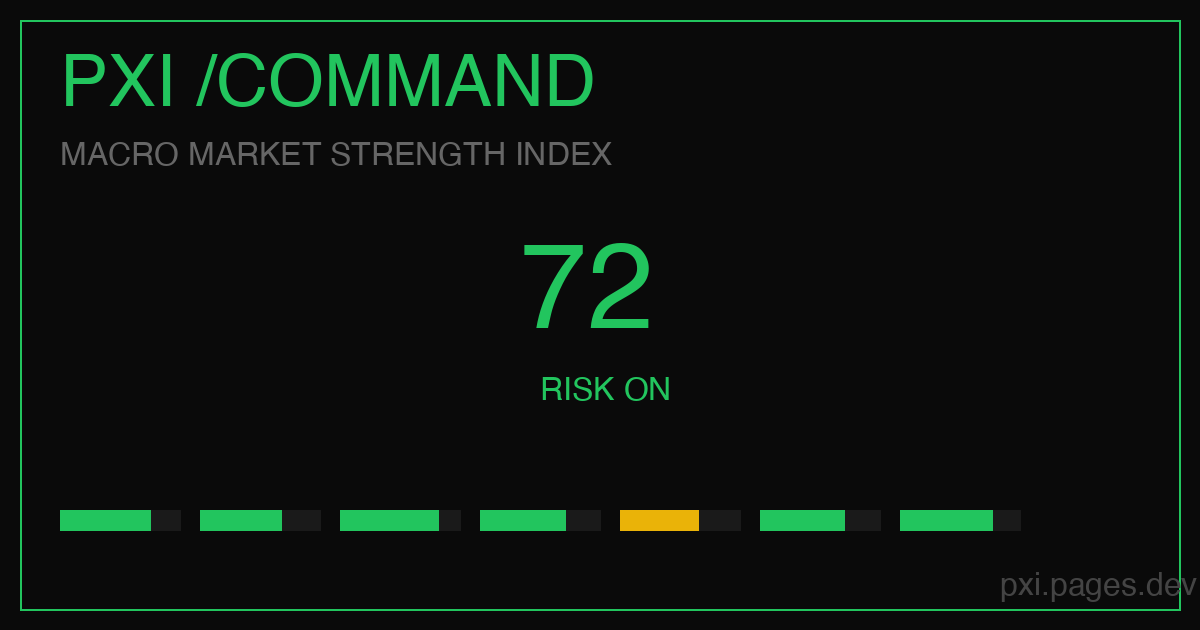
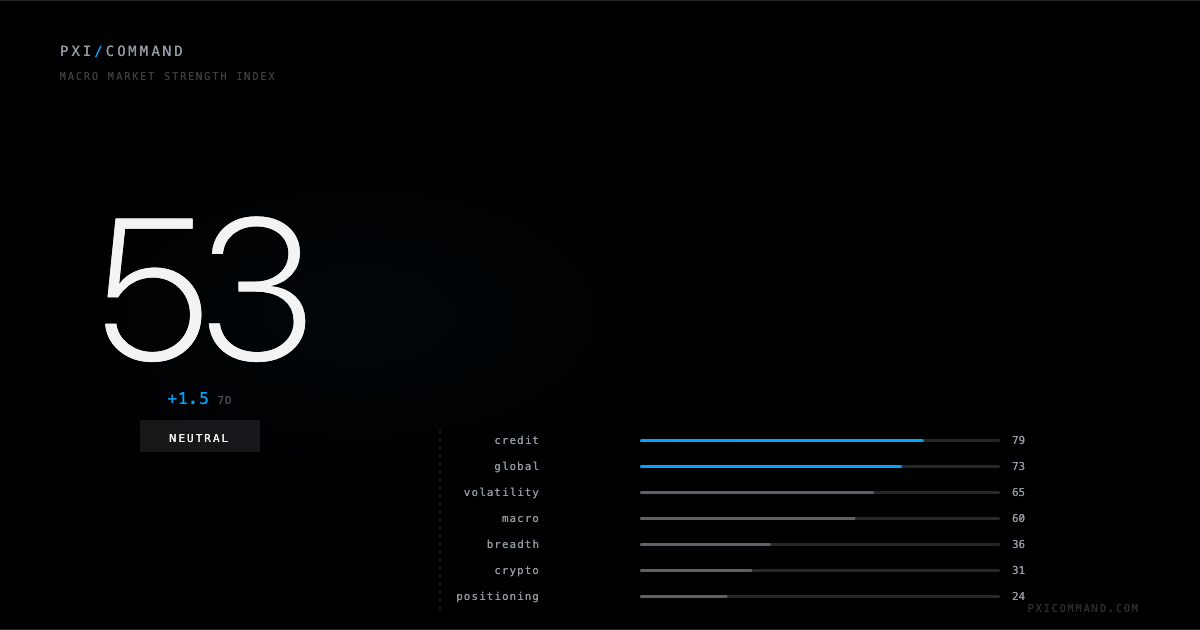
fix(og): redesign social share card to match site aesthetic
- Replace green terminal-style OG image with clean dark + blue design
- Pull live data: score, delta, status badge, and all 7 category bars
- Add category labels and scores with blue accent for high-scoring (>70)
- Add PXI/COMMAND brand header and pxicommand.com footer
- Subtle radial glow for depth, monospace typography throughout
- Update static PNG via Playwright screenshot of dynamic SVG

diff --git a/worker/api.ts b/worker/api.ts
@@ -2535,15 +2535,23 @@ export default {
       // OG Image endpoint
       if (url.pathname === '/og-image.svg') {
         const pxi = await env.DB.prepare(
-          'SELECT score, label, status FROM pxi_scores ORDER BY date DESC LIMIT 1'
-        ).first<{ score: number; label: string; status: string }>();
+          'SELECT score, label, status, delta_7d FROM pxi_scores ORDER BY date DESC LIMIT 1'
+        ).first<{ score: number; label: string; status: string; delta_7d: number | null }>();
 
         if (!pxi) {
           return new Response('No data', { status: 404, headers: corsHeaders });
         }
 
+        // Fetch categories for the bar visualization
+        const categories = await env.DB.prepare(
+          'SELECT category, score FROM category_scores WHERE date = (SELECT date FROM pxi_scores ORDER BY date DESC LIMIT 1) ORDER BY score DESC'
+        ).all<{ category: string; score: number }>();
+
         const score = Math.round(pxi.score);
         const label = pxi.label;
+        const delta7d = pxi.delta_7d;
+        const deltaStr = delta7d !== null ? `${delta7d >= 0 ? '+' : ''}${delta7d.toFixed(1)}` : '';
+
         const statusColors: Record<string, string> = {
           max_pamp: '#00a3ff',
           pamping: '#00a3ff',
@@ -2552,15 +2560,76 @@ export default {
           dumping: '#949ba5',
         };
         const color = statusColors[pxi.status] || '#949ba5';
-        const isLight = pxi.status === 'neutral' || pxi.status === 'soft';
+        const isAccent = pxi.status === 'max_pamp' || pxi.status === 'pamping';
+
+        // Build category bars SVG
+        const cats = (categories.results || []).slice(0, 7);
+        const catBarY = 440;
+        const catBarHeight = 3;
+        const catBarGap = 26;
+        const catLabelX = 540;
+        const catBarX = 640;
+        const catBarMaxW = 360;
+
+        const catBars = cats.map((c, i) => {
+          const y = catBarY + i * catBarGap;
+          const w = Math.max(4, (c.score / 100) * catBarMaxW);
+          const isHigh = c.score >= 70;
+          const displayName = c.category.replace(/_/g, ' ');
+          return `
+    <text x="${catLabelX}" y="${y + 4}" text-anchor="end" font-family="'SF Mono', 'Menlo', monospace" font-size="11" fill="#949ba5" letter-spacing="1" text-transform="uppercase">${displayName}</text>
+    <rect x="${catBarX}" y="${y - 1}" width="${catBarMaxW}" height="${catBarHeight}" rx="1.5" fill="#26272b"/>
+    <rect x="${catBarX}" y="${y - 1}" width="${w}" height="${catBarHeight}" rx="1.5" fill="${isHigh ? '#00a3ff' : 'rgba(148,155,165,0.5)'}"/>
+    <text x="${catBarX + catBarMaxW + 12}" y="${y + 4}" font-family="'SF Mono', 'Menlo', monospace" font-size="11" fill="#949ba5">${Math.round(c.score)}</text>`;
+        }).join('');
+
+        // Score position
+        const scoreX = 200;
+        const scoreY = 360;
 
         const svg = `<svg width="1200" height="630" xmlns="http://www.w3.org/2000/svg">
+  <defs>
+    <!-- Subtle radial glow behind score -->
+    <radialGradient id="glow" cx="0.3" cy="0.5" r="0.4">
+      <stop offset="0%" stop-color="#00a3ff" stop-opacity="0.04"/>
+      <stop offset="100%" stop-color="#000000" stop-opacity="0"/>
+    </radialGradient>
+  </defs>
+
+  <!-- Background -->
   <rect width="1200" height="630" fill="#000000"/>
-  <text x="600" y="340" text-anchor="middle" font-family="system-ui, -apple-system, sans-serif" font-weight="300" font-size="220" fill="#f3f3f3">${score}</text>
-  <rect x="475" y="400" width="250" height="44" rx="4" fill="${color}" fill-opacity="${isLight ? '0.2' : '1'}"/>
-  <text x="600" y="432" text-anchor="middle" font-family="monospace" font-weight="500" font-size="16" fill="${isLight ? '#f3f3f3' : '#000000'}" letter-spacing="2">${label}</text>
-  <text x="600" y="100" text-anchor="middle" font-family="monospace" font-weight="500" font-size="18" fill="#949ba5" letter-spacing="4">PXI/COMMAND</text>
-  <text x="600" y="580" text-anchor="middle" font-family="system-ui, sans-serif" font-size="14" fill="#949ba5" opacity="0.5">MACRO MARKET STRENGTH INDEX</text>
+  <rect width="1200" height="630" fill="url(#glow)"/>
+
+  <!-- Top border accent line -->
+  <rect x="0" y="0" width="1200" height="1" fill="#26272b"/>
+
+  <!-- Header: PXI/COMMAND -->
+  <text x="60" y="56" font-family="'SF Mono', 'Menlo', monospace" font-weight="500" font-size="14" fill="#949ba5" letter-spacing="3">PXI<tspan fill="#00a3ff">/</tspan>COMMAND</text>
+
+  <!-- Subtitle -->
+  <text x="60" y="80" font-family="'SF Mono', 'Menlo', monospace" font-size="10" fill="#949ba5" opacity="0.4" letter-spacing="2">MACRO MARKET STRENGTH INDEX</text>
+
+  <!-- Hero Score -->
+  <text x="${scoreX}" y="${scoreY}" text-anchor="middle" font-family="system-ui, -apple-system, 'Helvetica Neue', sans-serif" font-weight="200" font-size="200" fill="#f3f3f3" letter-spacing="-8">${score}</text>
+
+  <!-- 7d Delta -->
+  ${deltaStr ? `<text x="${scoreX}" y="${scoreY + 44}" text-anchor="middle" font-family="'SF Mono', 'Menlo', monospace" font-size="16" fill="${delta7d && delta7d >= 0 ? '#00a3ff' : '#949ba5'}" letter-spacing="1">${deltaStr}<tspan fill="#949ba5" opacity="0.5" font-size="11"> 7D</tspan></text>` : ''}
+
+  <!-- Status Badge -->
+  <rect x="${scoreX - 60}" y="${scoreY + 60}" width="120" height="32" rx="3" fill="${color}" fill-opacity="${isAccent ? '1' : '0.15'}"/>
+  <text x="${scoreX}" y="${scoreY + 82}" text-anchor="middle" font-family="'SF Mono', 'Menlo', monospace" font-weight="500" font-size="11" fill="${isAccent ? '#000000' : '#f3f3f3'}" letter-spacing="2">${label}</text>
+
+  <!-- Divider -->
+  <line x1="440" y1="430" x2="440" y2="${catBarY + cats.length * catBarGap - 10}" stroke="#26272b" stroke-width="1" stroke-dasharray="4,4"/>
+
+  <!-- Category Bars -->
+  ${catBars}
+
+  <!-- Bottom border accent line -->
+  <rect x="0" y="629" width="1200" height="1" fill="#26272b"/>
+
+  <!-- Footer -->
+  <text x="1140" y="612" text-anchor="end" font-family="'SF Mono', 'Menlo', monospace" font-size="10" fill="#949ba5" opacity="0.3" letter-spacing="2">PXICOMMAND.COM</text>
 </svg>`;
 
         return new Response(svg, {
